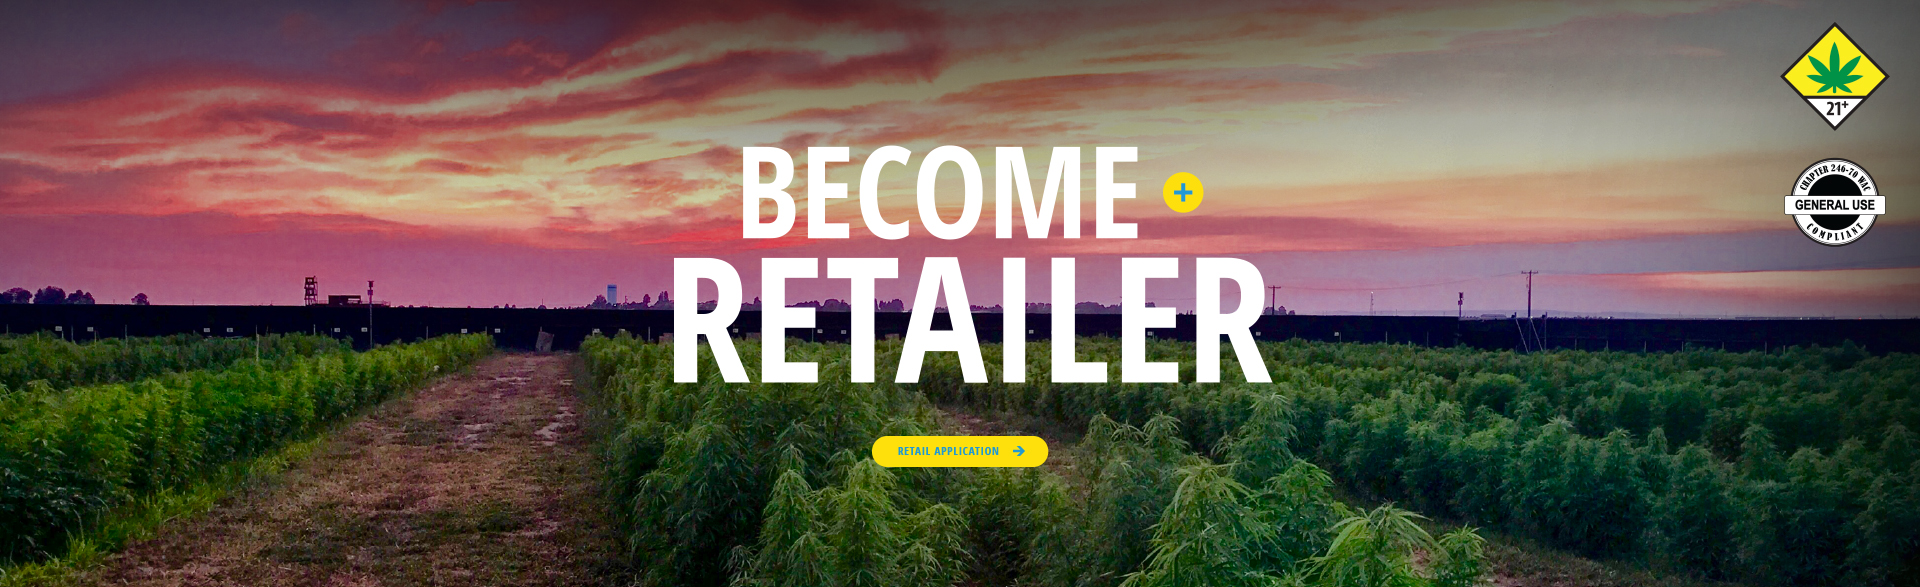
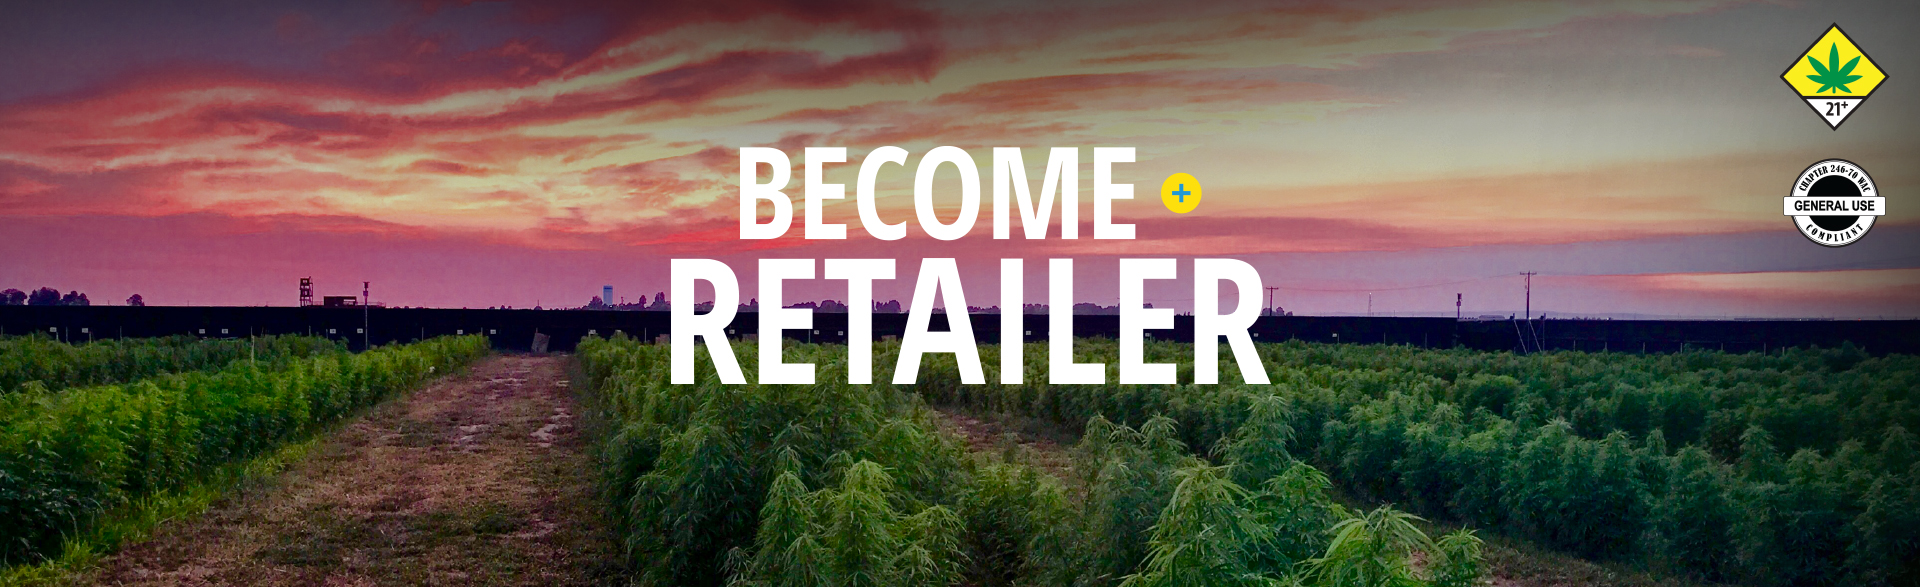
navbar spacing cta free mastheads new socail bar

diff --git a/find.html b/find.html
@@ -27,7 +27,7 @@
 		<!-- Navigation -->
 		<div class="container">
 		<nav class="navbar fixed-top bg-light navbar-light navbar-expand-md" style="margin-bottom:100px; justify-content:center;">
-			<a class="navbar-brand" href="index.html" style="margin-left:50px;">    
+			<a class="navbar-brand" href="index.html" style="margin-left:50px; margin-right: 150px;">    
 				<img src="images/indexA/mastheadLogo.png" width="166" height="31" alt="">
 			</a>
 			<button class="navbar-toggler" type="button" data-toggle="collapse" data-target="#collapsibleNavbar">
@@ -35,7 +35,7 @@
 			</button>
 			<div class="collapse navbar-collapse" id="collapsibleNavbar">
 				<ul class="navbar-nav justify-content-center">
-					<li class="nav-item dropdown" style="padding-left:50px;">
+					<li class="nav-item dropdown" style="padding-left:30px;">
 						<a class="nav-link" href="products.html" id="navbardrop" data-toggle="dropdown">Products</a>
 						<div class="dropdown-menu">
 							<a class="dropdown-item" href="products.html"><strong>All Products</strong></a>
@@ -48,13 +48,13 @@
 							<a class="dropdown-item" href="capsules.html">Capsules</a> -->
 						</div>
 					</li>             
-					<li class="nav-item" style="padding-left:50px;">
+					<li class="nav-item" style="padding-left:30px;">
 						<a class="nav-link" href="about.html">About Us</a>
 					</li>	
-					<li class="nav-item" style="padding-left:50px;">
+					<li class="nav-item" style="padding-left:30px;">
 						<a class="nav-link" href="find.html">Find Us</a>
 					</li>
-					<li class="nav-item" style="padding-left:50px;">
+					<li class="nav-item" style="padding-left:30px;">
 						<a class="nav-link" href="contact.html">Contact Us</a>
 					</li>
 				</ul>

diff --git a/empireHeader.html b/empireHeader.html
@@ -1,6 +1,6 @@
 	   <!-- Navigation -->
          <nav class="navbar fixed-top bg-light navbar-light navbar-expand-md" style="margin-bottom:100px; justify-content:center;">
-            <a class="navbar-brand" href="index.html" style="margin-left:50px;">    
+            <a class="navbar-brand" href="index.html" style="margin-left:50px; margin-right:150px;">    
                <img src="images/indexA/mastheadLogo.png" width="166" height="31" alt="">
             </a>
             <button class="navbar-toggler" type="button" data-toggle="collapse" data-target="#collapsibleNavbar">
@@ -8,7 +8,7 @@
             </button>
             <div class="collapse navbar-collapse" id="collapsibleNavbar">
                <ul class="navbar-nav justify-content-center">
-                  <li class="nav-item dropdown" style="padding-left:50px;">
+                  <li class="nav-item dropdown" style="padding-left:30px;">
                      <a class="nav-link " href="products.html" id="navbardrop" data-toggle="dropdown">Products</a>
                      <div class="dropdown-menu">
                         <a class="dropdown-item" href="products.html"><strong>All Products</strong></a>

diff --git a/productsBody.html b/productsBody.html
@@ -1,7 +1,7 @@
    
       <!-- Masthead -->
       <div>
-         <img class="img-fluid" style="margin-top:70px;" src="images/productsMasthead.png">
+         <img class="img-fluid" style="margin-top:70px;" src="images/productsMasthead.jpg">
       </div>
    
       <div class="container">
